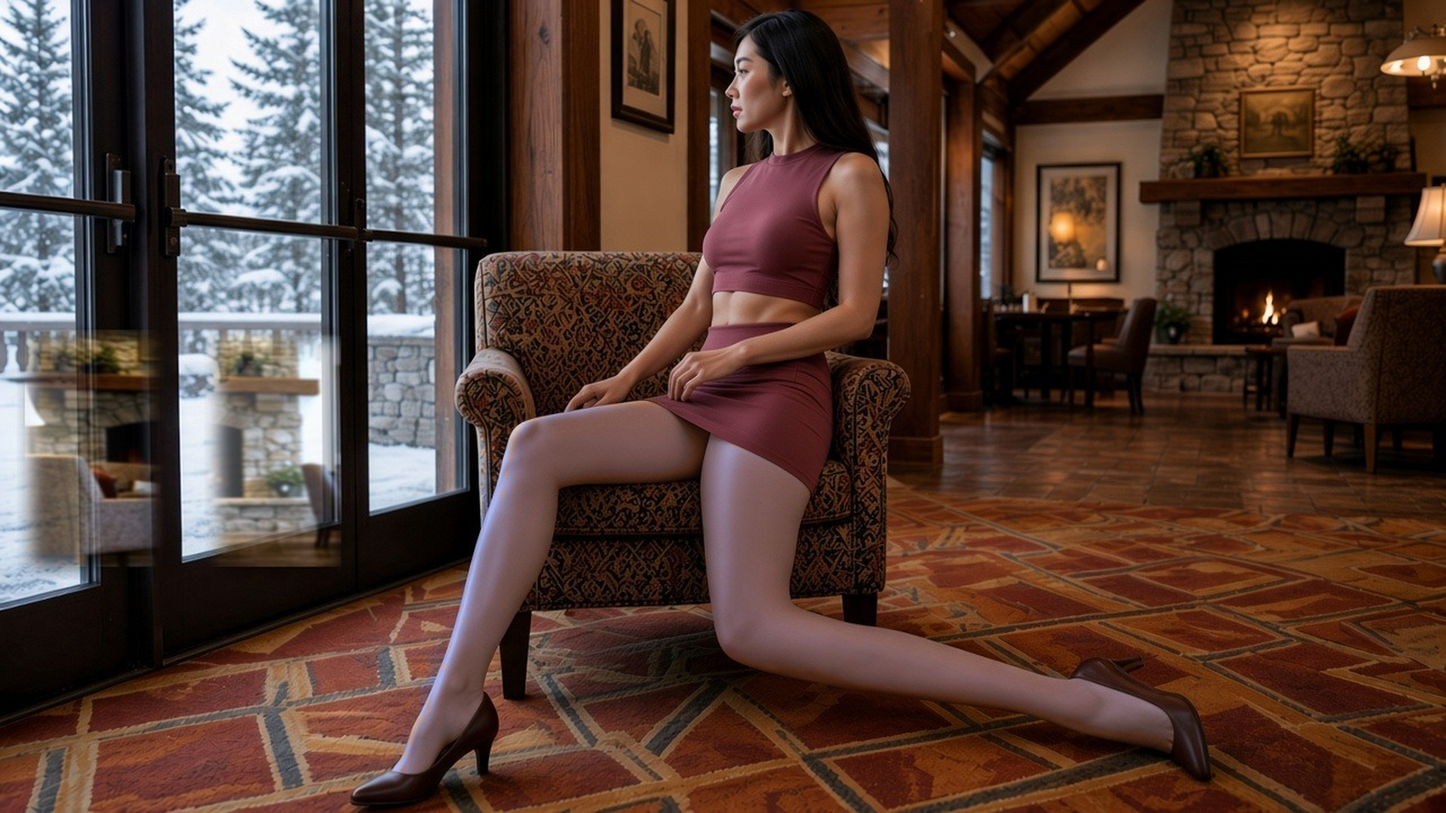
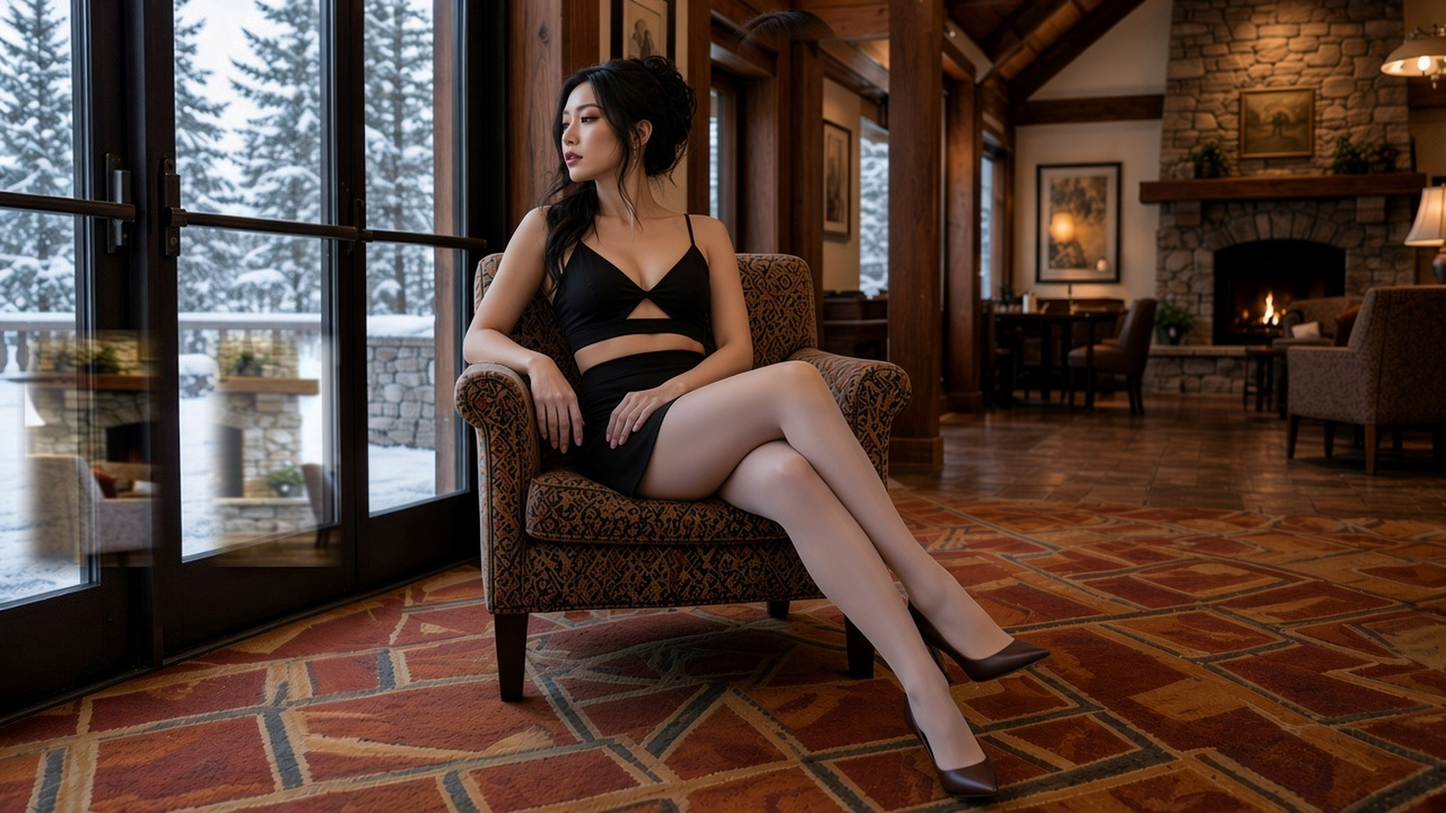
Replace the winter-overlook hour 8 figure.
Record the empty-stage tasting workflow so formal hours stay untouched until a trial is chosen.

diff --git a/images/winter-overlook/README.md b/images/winter-overlook/README.md
@@ -205,7 +205,7 @@ Still [ceiling so it does not overshoot].
 | `5` | 同走廊改近。背四分之三站在打開的門裡，看走廊盡頭。一隻手掌貼門框，約在肩膀高 | 暖棕布只蓋住臀部上半；臀部下弧在膚色膜裡 | 膚色全透，和下背同一調，大腿與膝蓋透出 | **穿鞋**。矮跟偏棕。趾頭不對鏡頭 | 壁燈在身側的走廊牆上 | **正式** `5.jpg`＝`_trials/5-skinfilm-6.jpg` 放大。獨立 3840×2160。`6` 仍連 `4` |
 | `6` | 留空，仍連 `4` | — | — | — | — | symlink→`4` |
 | `7` | 冬晨外觀。留空 | — | — | — | — | `7.jpg` |
-| `8` | 大廳靠窗。側坐扶手椅，一腿沿地毯伸出；看窗外的雪 | 坐下後下襬騎到大腿上段 | 窗外雪光的冷藍，皮膚透出 | **穿鞋**。暗皮矮跟。看見鞋口襪緣，不把腳掌翻向鏡頭 | 大門玻璃裡是雪和空廳，沒有她 | **正式** `8.jpg`＝`_trials/8-v32.jpg` 放大。獨立 3840×2160。兩腿同一層膜 |
+| `8` | 大廳靠窗。慵懶斜倚扶手椅、雙腿自大腿處自然交疊延伸向右下前景；看窗外的雪 | 墨黑細肩帶深 V 胸下三角鑽空短上衣＋高腰極短窄裙退到大腿根部 | 窗外雪光的冷藍微染全透，皮膚與膝蓋透出 | **穿鞋**。暗皮尖頭細跟晚鞋。看見鞋口襪緣 | 大門玻璃裡是雪和空廳，沒有她 | **正式** `8.jpg`＝`_trials/8-dirA3-cool-3840.jpg`（由空椅舞台 `8-empty-chair.jpg` 重出 `8-dirA-3.jpg` 後鎖定無倒影玻璃與冷藍透膜放大）。獨立 3840×2160。兩腿同一層膜 |
 | `9` | 日光照進的客房走廊。留空 | — | — | — | — | `9.jpg` |
 | `10` | 綠磚浴室。站在門框裡朝內看，浴缸保持空。腿在門框前景 | 沒有上衣、沒有下襬；胸、腰、髖皮膚都入鏡 | 綠磚的薄綠，從腰接到趾，皮膚和膝仍透出 | **脫鞋，房裡沒有鞋**。磁磚上看得見趾尖側面；膜蓋住趾腹；腳掌貼地 | 洗手台上方的鏡子裡是窗、浴缸、洗手台，沒有她 | 空景 `10.jpg`。試作仍是黑衣，未接受 |
 | `11` | 山景休息室。留空 | — | — | — | — | `11.jpg` |
@@ -226,20 +226,22 @@ Still [ceiling so it does not overshoot].
 
 ## 已驗證流程（沿用宇治／京都／聖殿）
 
-1. 覆寫前先備份：`cp --update=none N.jpg _trials/N-before-character.jpg`（symlink 先拆成獨立檔再備份）。
+1. **先品嚐再覆寫**：所有新試作與 4K 放大候選檔一律先存放在 `images/winter-overlook/_trials/`，並列出檔案名稱與差異供品嚐挑選；**未經明確指定前，不先覆寫正式檔 `N.jpg`**。覆寫前務必先備份：`cp --update=none N.jpg _trials/N-before-character.jpg`（symlink 先拆成獨立檔再備份）。
 2. 從零產 `16:9`。第一槍可以場景加人一起出。用文字寫飯店材質。不要拿舊的遠景空景當構圖鎖。
-3. 一次一個可見度量。下襬、襪色、脫鞋拆開改。整層襪膜要從下襬連續到趾頭；需要時緊裁腿再羽化貼回，不要局部染色。
-4. 寫入：
+3. **重設人物或大改姿勢時，先清空舞台再產人**：若直接拿已有舊人物的圖當 `reference_image_paths` 改姿勢或換臉，模型會被舊臉孔與舊肢體輪廓綁死（例如 `8` 舊版僵硬的一字劈腿）。正確做法是先用產圖將前景座位／舞台上的人完全移除（如 `_trials/8-empty-chair.jpg`），還原出乾淨的空椅與地毯後，再把新人物、新五官妝髮與自然的雙腿姿勢（如慵懶斜倚交疊長腿）產回空椅上。
+4. 一次一個可見度量。下襬、襪色、脫鞋拆開改。整層襪膜要從下襬連續到趾頭；合成回鎖定背景（如無倒影玻璃底板）時，**前景遮罩必須一次涵蓋完整人物與新舊雙腳的全部範圍**，且在大腿染色過渡區使用平滑高斯權重並排除黑裙暗部，絕不可在大腿中段切出橫向接縫或殘留舊鞋。
+5. 放大候選檔（留在 `_trials/` 供品嚐，確認後才 `cp` 到正式檔）：
 
 ```bash
 convert "$SRC" -filter Lanczos -resize '3840x2160^' -gravity center \
   -extent 3840x2160 -colorspace sRGB -quality 92 \
-  "$DEST/_trials/${trial}.jpg"
-cp "$DEST/_trials/${trial}.jpg" "$DEST/${hour}.jpg"
+  "$DEST/_trials/${trial}-3840.jpg"
+# 待確認選中後才執行：
+# cp "$DEST/_trials/${trial}-3840.jpg" "$DEST/${hour}.jpg"
 ```
 
-5. `identify` 確認 `3840×2160` sRGB。未接受的槍只留 `_trials/`。
-6. 不要跑會改桌布的 `./test.sh -s winter-overlook`，除非明確要求。
+6. `identify` 確認 `3840×2160` sRGB。未接受的槍只留 `_trials/`。
+7. 不要跑會改桌布的 `./test.sh -s winter-overlook`，除非明確要求。
 
 ## 失敗模式
 
